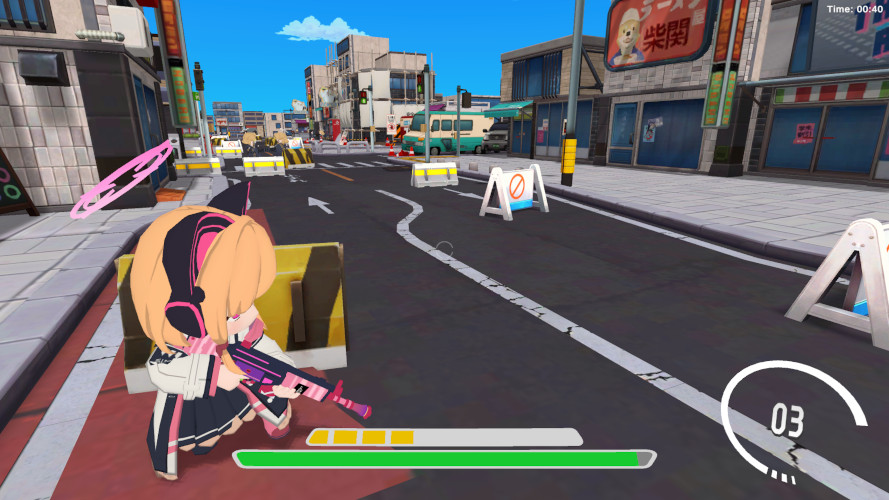
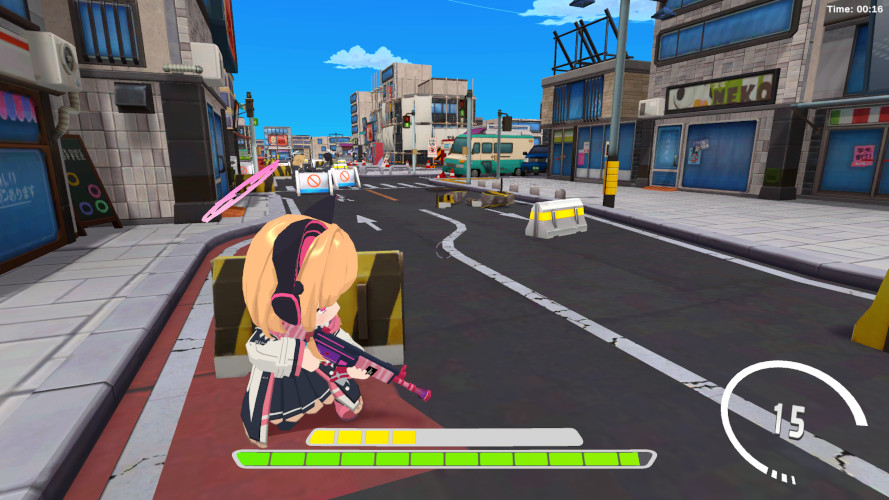
Update: New mission

diff --git a/docs/faq.html b/docs/faq.html
@@ -162,53 +162,87 @@ body {
     <!--HEADER END-->
     <div class="container">
         <div class="row">
-          	<h2 class="text-center g-3">Questions and answers</h2>
+          	<div itemscope itemtype="https://schema.org/FAQPage">
+<h2 class="text-center g-3">Questions and answers</h2>
 
-<div class="col col-12" id="why">
+<div class="col col-12" id="why" itemscope itemprop="mainEntity" itemtype="https://schema.org/Question">
   <div class="card mt-3" style="max-width: 700px;margin-left:auto;margin-right:auto;">
-    <div class="card-header">
+    <div class="card-header" itemprop="name">
       Why am I even making this fangame.
     </div>
-    <div class="card-body">
+    <div class="card-body" itemscope itemprop="acceptedAnswer" itemtype="https://schema.org/Answer">
+      <div itemprop="text">
     For me, this is a way to test the effectiveness of a number of complex decisions in the code.<br>
 I follow the principle "Anything can be made from anything", that from the resources of one game it is possible to make another, which, if possible, will retain the features of the first.
+      </div>
     </div>
   </div>
 </div>
 
-<div class="col col-12" id="plans">
+<div class="col col-12" id="plans" itemscope itemprop="mainEntity" itemtype="https://schema.org/Question">
   <div class="card mt-3" style="max-width: 700px;margin-left:auto;margin-right:auto;">
-    <div class="card-header">
+    <div class="card-header" itemprop="name">
       Plans for game development.
     </div>
-    <div class="card-body">
+    <div class="card-body" itemscope itemprop="acceptedAnswer" itemtype="https://schema.org/Answer">
+      <div itemprop="text">
     I plan to make up to 3 game modes:
 <ol>
   <li>Missions</li>
   <li>Boss fight</li>
   <li>The third one will remain a secret for now since its development is still in question.</li>
 </ol>
+      </div>
     </div>
   </div>
 </div>
 
-<div class="col col-12" id="icons">
+<div class="col col-12" id="how_to_shoot" itemscope itemprop="mainEntity" itemtype="https://schema.org/Question">
   <div class="card mt-3" style="max-width: 700px;margin-left:auto;margin-right:auto;">
-    <div class="card-header">
+    <div class="card-header" itemprop="name">
+      How to shoot?
+    </div>
+    <div class="card-body" itemscope itemprop="acceptedAnswer" itemtype="https://schema.org/Answer">
+      <div itemprop="text">
+    Aim with <kbd>RMB</kbd>, then shoot with <kbd>LMB</kbd>.
+      </div>
+    </div>
+  </div>
+</div>
+
+<div class="col col-12" id="icons" itemscope itemprop="mainEntity" itemtype="https://schema.org/Question">
+  <div class="card mt-3" style="max-width: 700px;margin-left:auto;margin-right:auto;">
+    <div class="card-header" itemprop="name">
       What this icon <img src="/Blue-Archive-Fanmade-Shooter/res/images/icons/use_cover.jpg" /> mean?
     </div>
-    <div class="card-body">
+    <div class="card-body" itemscope itemprop="acceptedAnswer" itemtype="https://schema.org/Answer">
+      <div itemprop="text">
     This icon means that the student can use cover by <kbd>F</kbd>.
+      </div>
     </div>
   </div>
 </div>
 
-<div class="col col-12" id="add_student">
+<div class="col col-12" id="icons" itemscope itemprop="mainEntity" itemtype="https://schema.org/Question">
   <div class="card mt-3" style="max-width: 700px;margin-left:auto;margin-right:auto;">
-    <div class="card-header">
+    <div class="card-header" itemprop="name">
+      What this icon <img src="/Blue-Archive-Fanmade-Shooter/res/images/icons/use_jump.jpg" /> mean?
+    </div>
+    <div class="card-body" itemscope itemprop="acceptedAnswer" itemtype="https://schema.org/Answer">
+      <div itemprop="text">
+    This icon means that the student can jump over some small obstacles using <kbd>SPACE</kbd>.
+      </div>
+    </div>
+  </div>
+</div>
+
+<div class="col col-12" id="add_student" itemscope itemprop="mainEntity" itemtype="https://schema.org/Question">
+  <div class="card mt-3" style="max-width: 700px;margin-left:auto;margin-right:auto;">
+    <div class="card-header" itemprop="name">
       Adding new students.
     </div>
-    <div class="card-body">
+    <div class="card-body" itemscope itemprop="acceptedAnswer" itemtype="https://schema.org/Answer">
+      <div itemprop="text">
     There are no plans to add new students for the following reasons:
 <ul>
   <li>Students with the main types of weapons have already been added to the game and therefore adding new students will not change anything in the gameplay (it will only add headaches if <a href="#skills">skills</a> are added).</li>
@@ -216,65 +250,75 @@ I follow the principle "Anything can be made from anything", that from the resou
   <li>Students with Bolt-action Rifle (such as Ui, Hasumi, Koharu, etc.) are currently impossible to balance. I think this will be possible in the future, but not now.</li>
   <li>Hibiki (Mortar Launcher)... I don't see a way to add her.</li>
 </ul>
+      </div>
     </div>
   </div>
 </div>
 
-<div class="col col-12" id="shooting_and_reload_on_move">
+<div class="col col-12" id="shooting_and_reload_on_move" itemscope itemprop="mainEntity" itemtype="https://schema.org/Question">
   <div class="card mt-3" style="max-width: 700px;margin-left:auto;margin-right:auto;">
-    <div class="card-header">
+    <div class="card-header" itemprop="name">
       Shooting and reloading on the move.
     </div>
-    <div class="card-body">
+    <div class="card-body" itemscope itemprop="acceptedAnswer" itemtype="https://schema.org/Answer">
+      <div itemprop="text">
     At the current stage it is not planned, in the future I don't know.<br>
 Firstly, in the original game, characters shoot and reload while standing still.<br>
 Secondly, in the original game there are no animations for this, and creating animations through code is not possible at the moment.<br>
 Balancing and improving the gaming experience will be done through other methods.
+      </div>
     </div>
   </div>
 </div>
 
-<div class="col col-12" id="skills">
+<div class="col col-12" id="skills" itemscope itemprop="mainEntity" itemtype="https://schema.org/Question">
   <div class="card mt-3" style="max-width: 700px;margin-left:auto;margin-right:auto;">
-    <div class="card-header">
+    <div class="card-header" itemprop="name">
       About adding skills and EX skills.
     </div>
-    <div class="card-body">
+    <div class="card-body" itemscope itemprop="acceptedAnswer" itemtype="https://schema.org/Answer">
+      <div itemprop="text">
     I would like to add them and initially there were such plans, but everything turned out to be not so simple.<br>
 In the original game, the skills are designed for the camera above the battlefield. With the camera from behind the back, it will be quite problematic to make normal aiming for AOE attacks.<br>
 Some skills are simply an enhanced shot that will be extremely ineffective against ordinary enemies, it will work against bosses, but there are none now.<br>
 I could go on and on, but these are the main reasons why there are no skills.<br>
 Even if they are added to the game, it is likely that they will differ from the original.
+      </div>
     </div>
   </div>
 </div>
 
-<div class="col col-12" id="android">
+<div class="col col-12" id="android" itemscope itemprop="mainEntity" itemtype="https://schema.org/Question">
   <div class="card mt-3" style="max-width: 700px;margin-left:auto;margin-right:auto;">
-    <div class="card-header">
+    <div class="card-header" itemprop="name">
       Can I play on Android?
     </div>
-    <div class="card-body">
+    <div class="card-body" itemscope itemprop="acceptedAnswer" itemtype="https://schema.org/Answer">
+      <div itemprop="text">
     <b>No, PC only.</b> The main reason is the problem of adapting the controls to the touchscreen. I don't see a way to make the game playable on a phone without fundamentally changing the basic principles of the game.
 <br><br>
 If you think you know how to do it, you are just imagining it.
+      </div>
     </div>
   </div>
 </div>
 
-<div class="col col-12" id="difficulty">
+<div class="col col-12" id="difficulty" itemscope itemprop="mainEntity" itemtype="https://schema.org/Question">
   <div class="card mt-3" style="max-width: 700px;margin-left:auto;margin-right:auto;">
-    <div class="card-header">
+    <div class="card-header" itemprop="name">
       The game is difficult.
     </div>
-    <div class="card-body">
+    <div class="card-body" itemscope itemprop="acceptedAnswer" itemtype="https://schema.org/Answer">
+      <div itemprop="text">
     Until you understand the character's tactics, it really seems like that.<br>
 I'm not going to make the game easier on purpose by adding HP or defense to the characters, but after adding some new mechanics it will gradually become easier.<br>
 Perhaps in the future it will even have to be made more difficult, at least Haruka will definitely need to be nerfed.
+      </div>
     </div>
   </div>
 </div>
 
+</div>
         </div>
         <!--FOOTER START-->
         <footer class="pt-4 my-md-5 border-top">

diff --git a/docs/index.html b/docs/index.html
@@ -177,25 +177,25 @@ body {
     </div>
     <div class="carousel-inner">
       <div class="carousel-item active">
-        <img src="/Blue-Archive-Fanmade-Shooter/res/images/07.jpg" class="d-block w-100" alt="" />
+        <img src="/Blue-Archive-Fanmade-Shooter/res/images/07.webp" class="d-block w-100" alt="" />
       </div>
       <div class="carousel-item">
-        <img src="/Blue-Archive-Fanmade-Shooter/res/images/01.jpg" class="d-block w-100" alt="" />
+        <img src="/Blue-Archive-Fanmade-Shooter/res/images/01.webp" class="d-block w-100" alt="" />
       </div>
       <div class="carousel-item">
-        <img src="/Blue-Archive-Fanmade-Shooter/res/images/02.jpg" class="d-block w-100" alt="" />
+        <img src="/Blue-Archive-Fanmade-Shooter/res/images/02.webp" class="d-block w-100" alt="" />
       </div>
       <div class="carousel-item">
-        <img src="/Blue-Archive-Fanmade-Shooter/res/images/03.jpg" class="d-block w-100" alt="" />
+        <img src="/Blue-Archive-Fanmade-Shooter/res/images/03.webp" class="d-block w-100" alt="" />
       </div>
       <div class="carousel-item">
-        <img src="/Blue-Archive-Fanmade-Shooter/res/images/04.jpg" class="d-block w-100" alt="" />
+        <img src="/Blue-Archive-Fanmade-Shooter/res/images/04.webp" class="d-block w-100" alt="" />
       </div>
       <div class="carousel-item">
-        <img src="/Blue-Archive-Fanmade-Shooter/res/images/05.jpg" class="d-block w-100" alt="" />
+        <img src="/Blue-Archive-Fanmade-Shooter/res/images/05.webp" class="d-block w-100" alt="" />
       </div>
       <div class="carousel-item">
-        <img src="/Blue-Archive-Fanmade-Shooter/res/images/06.jpg" class="d-block w-100" alt="" />
+        <img src="/Blue-Archive-Fanmade-Shooter/res/images/06.webp" class="d-block w-100" alt="" />
       </div>
     </div>
     <button class="carousel-control-prev" type="button" data-bs-target="#carouselExampleCaptions" data-bs-slide="prev">
@@ -214,17 +214,17 @@ body {
  <a href="https://www.dropbox.com/scl/fi/sj8o5r58kpktnpt52lksa/Blue-Archive-Fanmade-Shooter.rar?rlkey=o1d3qtpo9etfgdtuyuj61gf6u&dl=1"
 	class="btn ms-2 me-2 ba-button yellow" target="_blank">Download From Dropbox</a>
 </div>
-<div class="gy-3 col-md-12 text-center">
-  <div class="card d-inline-block">
-    <div class="card-header fw-bold" id="transfer_saves">
-        TRANSFER SAVES
+<div class="gy-3 col-md-12 text-center" itemscope itemtype="https://schema.org/FAQPage">
+  <div class="card d-inline-block" id="transfer_saves" itemscope itemprop="mainEntity" itemtype="https://schema.org/Question">
+    <div class="card-header fw-bold" itemprop="name">
+      TRANSFER SAVES
     </div>
-    <div class="card-body">
-       Save file stored at
-    <span class="bg-body-secondary border" style="padding: 1px 3px;">
-     	<span class="path-game-folder">path_to_game_folder</span><span class="path-separator">/</span>Blue Archive Fanmade Shooter_Data<span class="path-separator">/</span>save.data</span><br />
-      Move it from old version to new for saving unlocked students.<br />
-	  This file will not exist if you have not completed the mission for any character.
+    <div class="card-body" itemscope itemprop="acceptedAnswer" itemtype="https://schema.org/Answer">
+      <div itemprop="text">
+		Save file stored at <span class="bg-body-secondary border" style="padding: 1px 3px;"><span class="path-game-folder">path_to_game_folder</span><span class="path-separator">/</span>Blue Archive Fanmade Shooter_Data<span class="path-separator">/</span>save.data</span><br />
+		Move it from old version to new for saving unlocked students.<br />
+		This file will not exist if you have not completed the mission for any character.
+      </div>
     </div>
   </div>
 </div>

diff --git a/docs/features.html b/docs/features.html
@@ -166,14 +166,61 @@ body {
 
 <div class="col col-12">
   	<div class="card mt-3 d-md-flex flex-md-row" style="max-width: 800px;margin-left:auto;margin-right:auto;">
-    	<img class="card-img-top feature-img" src="/Blue-Archive-Fanmade-Shooter/res/images/features/drink-machine.jpg" alt="Drink machine" />
+    	<img class="card-img-top feature-img" src="/Blue-Archive-Fanmade-Shooter/res/images/features/buffs-gashapon.jpg" alt="Gashapon with buffs" />
     	<div class="flex-fill">
           <div class="card-header">
-            Drink machine
+            Gashapon with buffs
           </div>
           <div class="card-body">
-          Allows you to restore 25% HP for 3 points.<br>
+          For 2 points you get one random out of four buffs.<br>
+<div><img src="/Blue-Archive-Fanmade-Shooter/res/images/icons/effects/buff-def.png" alt="Defence Buff Icon" height="25" /><span class="align-middle"> - Reduces damage taken by 15%</span></div>
+<div><img src="/Blue-Archive-Fanmade-Shooter/res/images/icons/effects/buff-accuracy.png" alt="Defence Buff Icon" height="25" /><span class="align-middle"> - Reduces bullet spread by 15%</span></div>
+<div><img src="/Blue-Archive-Fanmade-Shooter/res/images/icons/effects/buff-damage.png" alt="Defence Buff Icon" height="25" /><span class="align-middle"> - Increases damage dealt by 25%</span></div>
+<div><img src="/Blue-Archive-Fanmade-Shooter/res/images/icons/effects/buff-speed.png" alt="Defence Buff Icon" height="25" /><span class="align-middle"> - Increases movement speed by 10%</span></div>
+          </div>
+      	</div>
+  	</div>
+</div>
+
+<div class="col col-12">
+  	<div class="card mt-3 d-md-flex flex-md-row" style="max-width: 800px;margin-left:auto;margin-right:auto;">
+    	<img class="card-img-top feature-img" src="/Blue-Archive-Fanmade-Shooter/res/images/features/drink-machine-green.jpg" alt="Drink machine (GREEN)" />
+    	<div class="flex-fill">
+          <div class="card-header">
+            Drink machine (GREEN)
+          </div>
+          <div class="card-body">
+          Allows you to restore 30% HP within 15 seconds for 3 points.<br>
 You get 1 point when an enemy dies.
+          </div>
+      	</div>
+  	</div>
+</div>
+
+<div class="col col-12">
+  	<div class="card mt-3 d-md-flex flex-md-row" style="max-width: 800px;margin-left:auto;margin-right:auto;">
+    	<img class="card-img-top feature-img" src="/Blue-Archive-Fanmade-Shooter/res/images/features/drink-machine.jpg" alt="Drink machine (RED)" />
+    	<div class="flex-fill">
+          <div class="card-header">
+            Drink machine (RED)
+          </div>
+          <div class="card-body">
+          Allows you to instantly restore 25% HP for 3 points.<br>
+You get 1 point when an enemy dies.
+          </div>
+      	</div>
+  	</div>
+</div>
+
+<div class="col col-12">
+  	<div class="card mt-3 d-md-flex flex-md-row" style="max-width: 800px;margin-left:auto;margin-right:auto;">
+    	<img class="card-img-top feature-img" src="/Blue-Archive-Fanmade-Shooter/res/images/features/jump.jpg" alt="Jump" />
+    	<div class="flex-fill">
+          <div class="card-header">
+            Jump
+          </div>
+          <div class="card-body">
+          Some characters can jump over small obstacles.
           </div>
       	</div>
   	</div>

diff --git a/docs/updates.html b/docs/updates.html
@@ -167,6 +167,40 @@ body {
 <div class="col col-12">
   <div class="card mt-3" style="max-width: 600px;margin-left:auto;margin-right:auto;">
     <div class="card-header">
+      20.10.2024
+    </div>
+    <div class="card-body">
+    <ul>
+  <li>Added new mission (Path to Chesed)</li>
+  <li>First mission now called "Defeat Thugs"</li>
+  <li>Scenario system</li>
+  <li>Jump</li>
+  <li>Toon renderer</li>
+  <li>Started using Lit shaders instead of Unlit</li>
+  <li>Custom lighting</li>
+  <li>Support for additional lights</li>
+  <li>Started using R channel on mask map</li>
+  <li>Changed drink machine model</li>
+  <li>Changed icon for red drink machine</li>
+  <li>Added green drink machine</li>
+  <li>Added gashapon with buffs</li>
+  <li>Fixed aiming sensitivity for some characters</li>
+  <li>Minor changes to tree burning effects</li>
+  <li>Changed camera position</li>
+  <li>Changing health bars and points bar</li>
+  <li>Added hair highlights</li>
+  <li>Minor changes to the first mission map</li>
+  <li>The total number of stars is now displayed in the main menu</li>
+  <li>Changed Neru's footstep sound</li>
+  <li>Upscale some effects textures</li>
+</ul>
+    </div>
+  </div>
+</div>
+
+<div class="col col-12">
+  <div class="card mt-3" style="max-width: 600px;margin-left:auto;margin-right:auto;">
+    <div class="card-header">
       26.05.2024
     </div>
     <div class="card-body">

diff --git a/README.md b/README.md
@@ -9,8 +9,6 @@ The game uses assets from Blue Archive GLOBAL.<br />
 
 [Gameplay Video](https://youtu.be/s_Zi8_lWg-s)
 
-[Download](https://moozaart.github.io/Blue-Archive-Fanmade-Shooter/)
-
 > **TRANSFER SAVES**<br />
 > Save file stored at `path_to_game_folder/Blue Archive Fanmade Shooter_Data/save.data`<br />
 > Move it from old version to new for saving unlocked students.<br />
